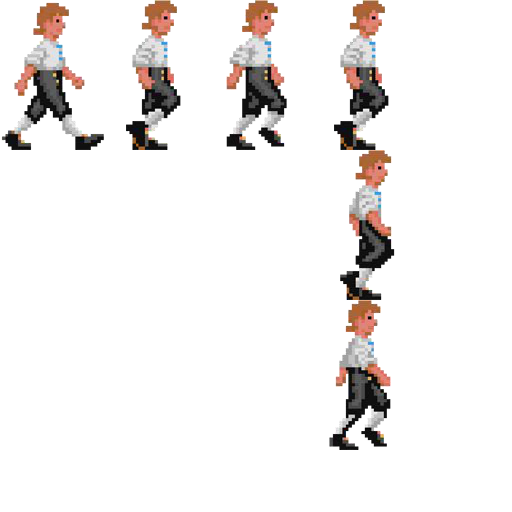
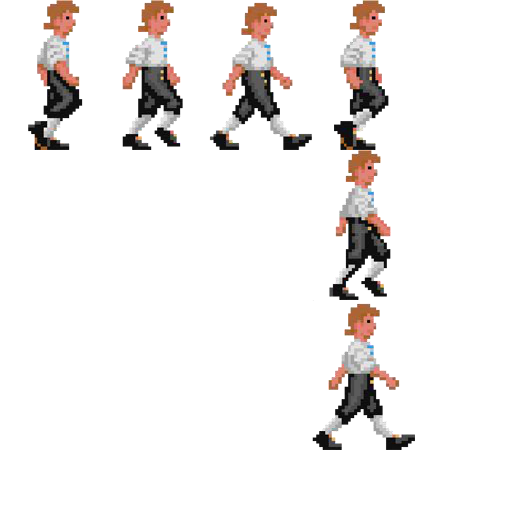
Fix the flipbook export, make Guybrush dance.

Changed region(s): [[0.5938, 0.2812, 0.8125, 0.9062], [0.0, 0.0, 0.375, 0.3125], [0.4062, 0.0, 0.625, 0.3125]]

diff --git a/Integration/FlipbookMode.m b/Integration/FlipbookMode.m
@@ -7,15 +7,25 @@
 #import "BTMovieResource.h"
 #import "BTMovie.h"
 #import "BTModeStack.h"
+#import "BTRotationTask.h"
+#import "BTRepeatingTask.h"
+#import "BTSequenceTask.h"
 
 @implementation FlipbookMode
 - (id)init {
     if (!(self = [super init])) return nil;
-    BTMovie *movie = [BTMovieResource newMovie:@"guybrush"];
-    movie.x = movie.width;
-    movie.y = movie.height;
-    [self.sprite addChild:movie];
-    [movie loopFromFrame:0];
+    for (int ii = 0; ii < 6; ii++) {
+        BTMovie *movie = [BTMovieResource newMovie:@"guybrush"];
+        movie.x = movie.width + ii / 3 * movie.width;
+        movie.y = movie.height + ii % 3 * movie.height - 50;
+        [self.sprite addChild:movie];
+        [movie loopFromFrame:0];
+        [self addNode:[BTRepeatingTask withTaskCreator:^BTNode*  {
+            return [BTSequenceTask withNodes:
+                     [BTRotationTask withTime:1.0 rotation:1 * ii target:movie],
+                     [BTRotationTask withTime:1.0 rotation:-1 * ii target:movie], nil];
+        }]];
+    }
     return self;
 }
 @end

diff --git a/Classes/BTMovie.m b/Classes/BTMovie.m
@@ -57,8 +57,6 @@ SPDisplayObject* createDisplayObject(NSString* symbol) {
             displays = [[NSMutableArray alloc] initWithCapacity:[keyframes count]];
             for (BTMovieResourceKeyframe* kf in keyframes) {
                 SPDisplayObject* display = createDisplayObject(kf->libraryItem);
-                NSLog(@"%@", kf->libraryItem);
-
                 [displays addObject:display];
                 display.name = layer->name;
             }
@@ -76,10 +74,9 @@ SPDisplayObject* createDisplayObject(NSString* symbol) {
         changedKeyframe = true;
     }
     if (changedKeyframe && displays) {
-        NSLog(@"Switching at %d to %d", frame, keyframeIdx);
         [movie removeChildAtIndex:layerIdx];
         [movie addChild:[displays objectAtIndex:keyframeIdx] atIndex:layerIdx];
-    } else NSLog(@"No switch at %d from %d", frame, keyframeIdx);
+    }
     changedKeyframe = false;
     BTMovieResourceKeyframe* kf = [self kfAtIdx:keyframeIdx];
     SPDisplayObject* layer = [movie childAtIndex:layerIdx];

diff --git a/TestApp.m b/TestApp.m
@@ -13,6 +13,7 @@
 #import "BTModeStack.h"
 #import "GroupTestMode.h"
 #import "LeakTestMode.h"
+#import "FlipbookMode.h"
 
 #import "BTLoadingMode.h"
 
@@ -23,9 +24,10 @@
 
 - (id)init {
     if (!(self = [super init])) return nil;
-    [self addFiles:@"ResourceTest.xml", @"squaredance/resources.xml", @"shapes/resources.xml", nil];
+    [self addFiles:@"ResourceTest.xml", @"squaredance/resources.xml", @"shapes/resources.xml", @"guybrush/resources.xml", nil];
     [self.loadComplete connectUnit:^{
-        [self.modeStack changeMode:[[NamedNodeMode alloc] init]];
+        [self.modeStack changeMode:[[FlipbookMode alloc] init]];
+        [self.modeStack pushMode:[[NamedNodeMode alloc] init]];
         [self.modeStack pushMode:[[MoveMode alloc] init]];
         [self.modeStack pushMode:[[SelfRemoveMode alloc] init]];
         [self.modeStack pushMode:[[PlayMovieMode alloc] init]];

diff --git a/Integration/NamedNodeMode.m b/Integration/NamedNodeMode.m
@@ -8,6 +8,7 @@
 #import "BTBlockTask.h"
 #import "BTWaitTask.h"
 #import "BTSequenceTask.h"
+#import "BTModeStack.h"
 
 @implementation NamedNodeMode
 - (id)init {
@@ -24,8 +25,8 @@
             NSAssert([sprite nodeForName:@"mover"] == nil, nil);
             NSAssert(sprite.sprite.x > 0, nil);
             NSAssert(sprite.sprite.x < 100, nil);
+            [self.modeStack popMode];
         }],
-        [BTDetachTask detachParent],
         nil]];
     return self;
 }
